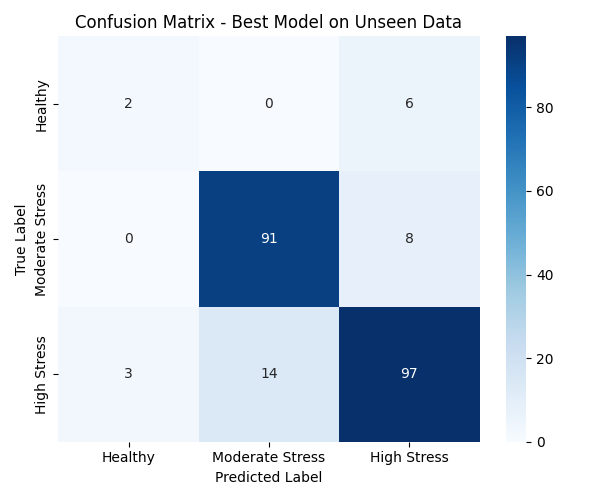
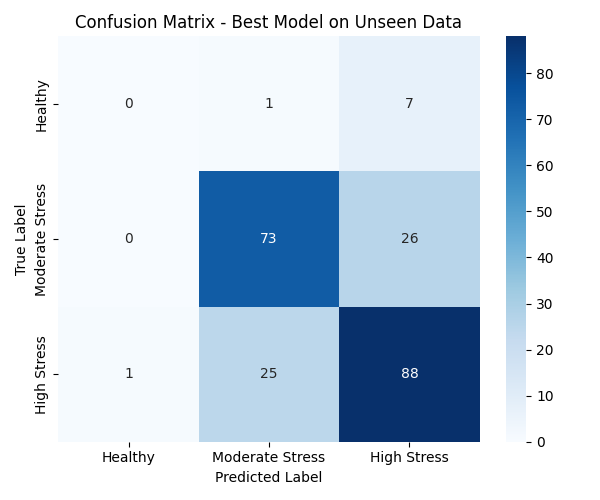
1D-CNN 88% Acc update

diff --git a/src/core/model.py b/src/core/model.py
@@ -1,48 +1,38 @@
-"""
-1D-CNN Model for Plant Health (with Timestamp-enabled features)
-"""
-
 import torch
 import torch.nn as nn
 
 
 class PlantHealthCNN(nn.Module):
-    def __init__(self, input_size: int, num_classes: int = 3):
+    def __init__(self, input_size=7, num_classes=3):
         super().__init__()
-
         self.conv1 = nn.Conv1d(input_size, 64, kernel_size=3, padding=1)
         self.bn1 = nn.BatchNorm1d(64)
         self.conv2 = nn.Conv1d(64, 128, kernel_size=3, padding=1)
         self.bn2 = nn.BatchNorm1d(128)
         self.conv3 = nn.Conv1d(128, 64, kernel_size=3, padding=1)
         self.bn3 = nn.BatchNorm1d(64)
-
         self.pool = nn.MaxPool1d(2)
-        self.dropout = nn.Dropout(0.35)
+        self.dropout = nn.Dropout(0.4)
+
+        # Corrected: After mean pooling we have 64 features
+        self.fc1 = nn.Linear(64, 128)
+        self.fc2 = nn.Linear(128, 64)
+        self.fc3 = nn.Linear(64, num_classes)
         self.relu = nn.ReLU()
 
-        self.flatten_size = 64 * 5  # After pooling
-
-        self.fc1 = nn.Linear(self.flatten_size, 128)
-        self.fc2 = nn.Linear(128, 32)
-        self.fc3 = nn.Linear(32, num_classes)
-
-    def forward(self, x, plant_ids=None):
-        x = x.transpose(1, 2)  # (batch, seq, features) -> (batch, features, seq)
+    def forward(self, x):
+        # x shape: (batch, seq_len=20, features=7)
+        x = x.transpose(1, 2)  # -> (batch, features, seq_len)
 
         x = self.relu(self.bn1(self.conv1(x)))
         x = self.pool(x)
-        x = self.dropout(x)
-
         x = self.relu(self.bn2(self.conv2(x)))
         x = self.pool(x)
-        x = self.dropout(x)
-
         x = self.relu(self.bn3(self.conv3(x)))
 
-        x = x.flatten(start_dim=1)
-        x = self.relu(self.fc1(x))
-        x = self.dropout(x)
-        x = self.relu(self.fc2(x))
+        x = x.mean(dim=2)  # Global average pooling → (batch, 64)
+
+        x = self.dropout(self.relu(self.fc1(x)))
+        x = self.dropout(self.relu(self.fc2(x)))
         x = self.fc3(x)
         return x